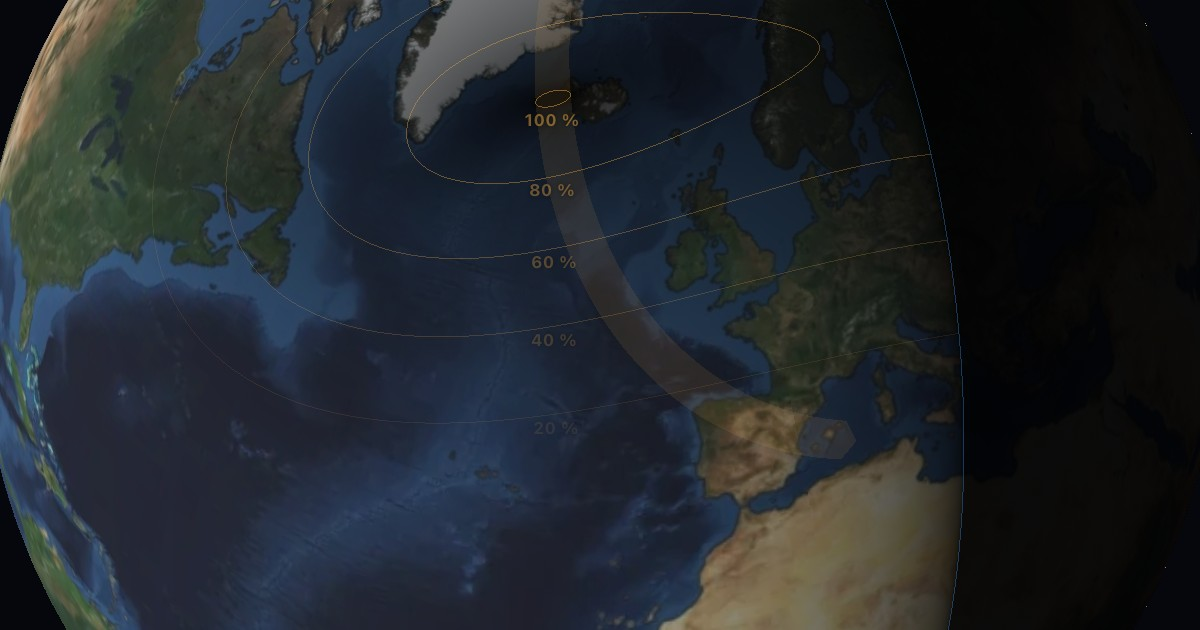
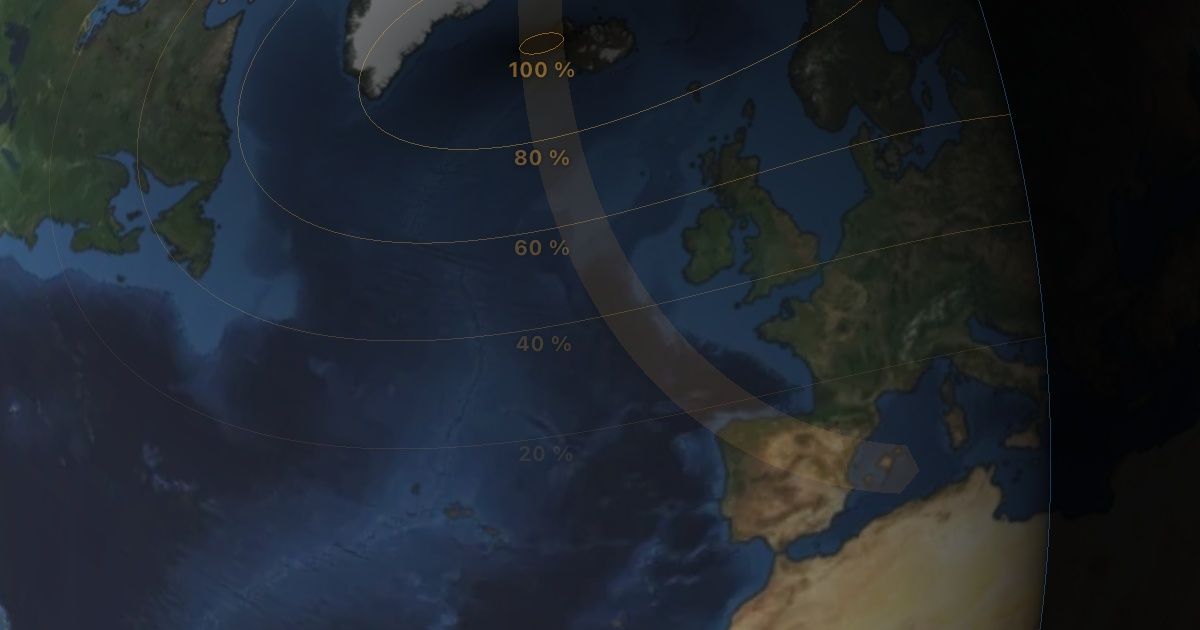
feat: implement screenshot mode for OG images and update related tests for opacity handling

diff --git a/tests/privacy.spec.ts b/tests/privacy.spec.ts
@@ -32,7 +32,7 @@ test.describe('location privacy', () => {
 		// Nothing seeded this page, so the reload proves the app can read back what it wrote — the two
 		// halves are in the same module, but a change to the stored shape has to break one of these.
 		await page.reload();
-		await expect(page.locator('section.b1 h2')).toHaveText('Totale Sonnenfinsternis');
+		await expect(page.locator('section.b1 h2')).toContainText('Totale Sonnenfinsternis');
 	});
 
 	// Reads what the fixture seeded, so it covers the READ half of persistence only — storedPage re-seeds
@@ -40,11 +40,11 @@ test.describe('location privacy', () => {
 	// The write half is the reload in the test above and the round trip in location-change.spec.ts.
 	test('restores the located state on reload, with no URL parameters', async ({ page, storedPage }) => {
 		await storedPage({ lat: 43.3603, lon: -5.8448, name: 'Oviedo' });
-		await expect(page.locator('section.b1 h2')).toHaveText('Totale Sonnenfinsternis');
+		await expect(page.locator('section.b1 h2')).toContainText('Totale Sonnenfinsternis');
 		expect(new URL(page.url()).search).toBe('');
 
 		await page.reload();
-		await expect(page.locator('section.b1 h2')).toHaveText('Totale Sonnenfinsternis');
+		await expect(page.locator('section.b1 h2')).toContainText('Totale Sonnenfinsternis');
 	});
 
 	test('falls back to the un-located state when storage is cleared', async ({ page, stubGeocoder }) => {
@@ -66,7 +66,7 @@ test.describe('location privacy', () => {
 
 	test('accepts the ?lat&lon debug override without writing it back', async ({ page, locatedPage }) => {
 		await locatedPage({ lat: 52.52, lon: 13.405, name: 'Berlin' });
-		await expect(page.locator('section.b1 h2')).toHaveText('Partielle Sonnenfinsternis');
+		await expect(page.locator('section.b1 h2')).toContainText('Partielle Sonnenfinsternis');
 		// read once as a debug affordance — and not promoted into storage
 		expect(await page.evaluate(() => window.localStorage.getItem('eclipse.location'))).toBeNull();
 	});

diff --git a/src/lib/shadow-globe/isoLabels.ts b/src/lib/shadow-globe/isoLabels.ts
@@ -14,6 +14,13 @@ type Entry = { marker: Marker; span: HTMLSpanElement };
 export class IsoLabels {
 	private markers: Entry[] = [];
 
+	/**
+	 * Screenshot mode (the `?og` URL flag): labels keep each ring's full opacity regardless of zoom.
+	 * The zoom fade exists for interactive readers zooming far out; the OG image is captured exactly
+	 * there, and a social card with ghost labels defeats the overlay's purpose.
+	 */
+	zoomFadeDisabled = false;
+
 	constructor(private rings: Ring[]) {}
 
 	/** Create one marker per ring and add them to the map (hidden until the first `update`). */
@@ -45,7 +52,7 @@ export class IsoLabels {
 		const down = umbra && model ? viewportDownDir(map, umbra) : null;
 		// Shrink + fade the labels out when zoomed far out (unreadable clutter otherwise).
 		const size = Math.min(12, Math.pow(2, map.getZoom()) * 2.5);
-		const zoomFade = Math.max(0, Math.min(1, (size - 5) / 2));
+		const zoomFade = this.zoomFadeDisabled ? 1 : Math.max(0, Math.min(1, (size - 5) / 2));
 		this.rings.forEach((ring, i) => {
 			const { marker, span } = this.markers[i];
 			const radius = model ? radiusForCoverage(model, ring.level) : null;

diff --git a/tests/i18n.spec.ts b/tests/i18n.spec.ts
@@ -41,9 +41,9 @@ test.describe('language switching @i18n', () => {
 
 	test('translates the personalised sections too', async ({ page, locatedPage }) => {
 		await locatedPage(byName('Oviedo'), 'en');
-		await expect(page.locator('section.b1 h2')).toHaveText('Total solar eclipse');
+		await expect(page.locator('section.b1 h2')).toContainText('Total solar eclipse');
 		await locatedPage(byName('Oviedo'), 'es');
-		await expect(page.locator('section.b1 h2')).toHaveText('Eclipse solar total');
+		await expect(page.locator('section.b1 h2')).toContainText('Eclipse solar total');
 	});
 
 	test('marks the current language for assistive tech', async ({ page }) => {
@@ -82,7 +82,7 @@ test.describe('language switching @i18n', () => {
 			.catch(() => {});
 		await expect(page.locator('section.b1')).toBeVisible();
 		await switchLanguage(page, 'en');
-		await expect(page.locator('section.b1 h2')).toHaveText('Total solar eclipse');
+		await expect(page.locator('section.b1 h2')).toContainText('Total solar eclipse');
 	});
 
 	test('formats times in the reader’s zone, in the page’s language', async ({ page, locatedPage }) => {

diff --git a/src/lib/shadow-globe/isoLabels.dom.test.ts b/src/lib/shadow-globe/isoLabels.dom.test.ts
@@ -125,6 +125,18 @@ describe('update', () => {
 		expect(opacities[2]).toBeCloseTo(0.5, 6); // full zoom fade × the 100 % ring's opacity
 	});
 
+	it('skips the zoom fade in screenshot mode (?og), keeping each ring at full opacity', () => {
+		// The OG card is captured at the wide opening zoom, exactly where the fade would ghost the
+		// labels — scripts/build-og-image.ts relies on this override.
+		const labels = attached();
+		labels.zoomFadeDisabled = true;
+		map.getZoom = () => 0; // far out: the fade would be 0 and hide the labels entirely
+		labels.update(map as unknown as MlMap, model, true);
+		const opacities = FakeMarker.instances.map((m) => Number(m.element.querySelector('span')!.style.opacity));
+		expect(opacities[0]).toBeCloseTo(0.1, 6); // the 20 % ring's own opacity, unfaded
+		expect(opacities[2]).toBeCloseTo(0.5, 6); // the 100 % ring's own opacity, unfaded
+	});
+
 	it('hides everything when the overlay is switched off', () => {
 		const labels = attached();
 		labels.update(map as unknown as MlMap, model, true);

diff --git a/scripts/build-og-image.ts b/scripts/build-og-image.ts
@@ -33,7 +33,9 @@ const kill = () => {
 };
 process.on('exit', kill);
 
-const url = `http://localhost:${PORT}${BASE}/de/`;
+// ?og: screenshot mode — the iso labels skip their zoom fade (ShadowRun/IsoLabels), so the coverage
+// geometry reads at full strength in the card instead of ghosting at the wide opening zoom.
+const url = `http://localhost:${PORT}${BASE}/de/?og`;
 for (let tries = 0; ; tries++) {
 	try {
 		const res = await fetch(url);
@@ -91,7 +93,7 @@ if (box.width < w || box.height < h) {
 	console.error(`[og] A2 canvas ${box.width}×${box.height} is smaller than the ${w}×${h} CSS clip`);
 	process.exit(1);
 }
-await page.screenshot({ path: OUT, type: 'jpeg', quality: 90, clip });
+await page.screenshot({ path: OUT, type: 'jpeg', quality: 95, clip });
 await browser.close();
 kill();
 console.log(`[og] ${OUT} written (${WIDTH}×${HEIGHT}, greatest eclipse at ${GREATEST.utc})`);

diff --git a/src/lib/components/ShadowRun.svelte b/src/lib/components/ShadowRun.svelte
@@ -259,6 +259,9 @@
 			else m.once('style.load', applyFit);
 
 			if (new URLSearchParams(location.search).has('debug')) Object.assign(window, { __map: m });
+			// ?og — screenshot mode for scripts/build-og-image.ts: the iso labels skip their zoom fade,
+			// so the geometry overlay is fully readable in the captured card.
+			if (new URLSearchParams(location.search).has('og')) isoLabels.zoomFadeDisabled = true;
 			// Surface style/tile/WebGL errors that would otherwise be swallowed (and can stall loading).
 			m.on('error', (e) => console.error('[A2] map error:', (e as { error?: unknown }).error ?? e));
 			// Test hook: the end-to-end suite waits on this instead of guessing at a timeout or watching

diff --git a/tests/location-gps.spec.ts b/tests/location-gps.spec.ts
@@ -30,7 +30,7 @@ test.describe('use my location', () => {
 		await expect(page.locator('dialog.picker-dlg .summary .place')).toContainText('Berlin');
 		await page.getByRole('button', { name: /Diesen Ort verwenden/ }).click();
 
-		await expect(page.locator('section.b1 h2')).toHaveText('Partielle Sonnenfinsternis');
+		await expect(page.locator('section.b1 h2')).toContainText('Partielle Sonnenfinsternis');
 	});
 
 	test('shows an error and stays usable when permission is denied', async ({ page, context, stubGeocoder }) => {

diff --git a/tests/location-search.spec.ts b/tests/location-search.spec.ts
@@ -108,7 +108,7 @@ test.describe('location search', () => {
 
 		await expect(page.locator('dialog.picker-dlg')).toBeHidden();
 		await expect(page.locator('section.b1')).toBeVisible();
-		await expect(page.locator('section.b1 h2')).toHaveText('Totale Sonnenfinsternis');
+		await expect(page.locator('section.b1 h2')).toContainText('Totale Sonnenfinsternis');
 	});
 
 	test('clearing the query drops the results', async ({ page, stubGeocoder }) => {
